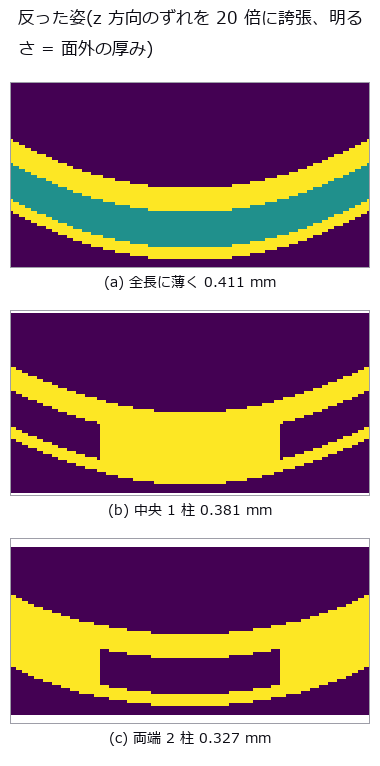
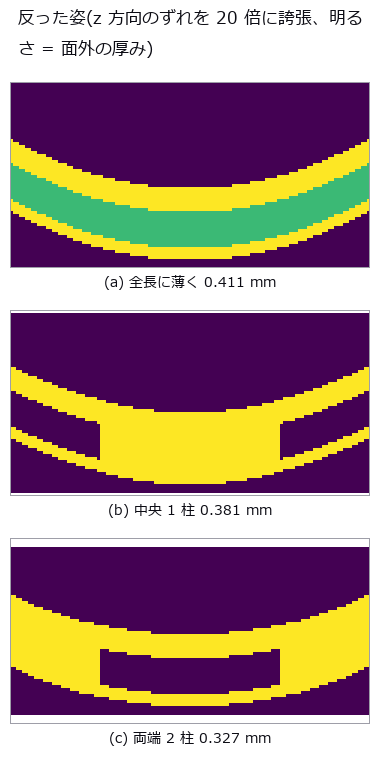
auto: poc_bev_sensor_fusion.py 編集前 (2026-09-07 22:02)

Changed region(s): [[0.0289, 0.2102, 0.9842, 0.3303]]

diff --git a/examples/poc_bev_sensor_fusion.py b/examples/poc_bev_sensor_fusion.py
@@ -827,6 +827,27 @@ def section_bands(rig: Rig) -> dict:
     conds = (("誤差なし", dict()), ("回転 %.2f 度" % BAND_YAW, dict(dyaw=BAND_YAW)),
              ("並進 %.0f mm" % (1000 * BAND_SHIFT),
               dict(dt=(0.0, BAND_SHIFT, 0.0))))
+
+    # (a) まず「点が実際にどれだけ動いたか」を帯ごとに測る(IoU より直接的)
+    print("\n   カメラの点の平均移動量 [m]    "
+          + "  ".join("%5.0f-%2.0f m" % b for b in BANDS) + "   遠 / 近の比")
+    p0 = place(rig.pb, CAM["C"])
+    insl = (p0[:, 2] >= Z_LO) & (p0[:, 2] < Z_HI)
+    shift_ratio = {}
+    for cname, kw in conds[1:]:
+        p1 = place(rig.pb, CAM["C"], **kw)
+        d = np.linalg.norm((p1 - p0)[:, :2], axis=1)
+        vals = []
+        for b in BANDS:
+            sel = insl & (p0[:, 0] >= b[0]) & (p0[:, 0] < b[1])
+            vals.append(float(d[sel].mean()) if sel.any() else 0.0)
+        shift_ratio[cname] = vals[-1] / max(vals[0], 1e-9)
+        print("   %-26s" % cname + "  ".join("%9.3f" % v for v in vals)
+              + "   %8.2f" % shift_ratio[cname])
+    print("   ★回転は帯ごとに %.2f 倍(距離に比例)、並進は %.2f 倍(定数)—— "
+          "**原因はここで既に分かれている**。"
+          % (shift_ratio[conds[1][0]], shift_ratio[conds[2][0]]))
+
     out, rows = {}, []
     hdr = "   誤差を持つセンサ(カメラ)単独  " + " ".join(
         "%5.0f-%2.0f m" % b for b in BANDS) + "   遠 / 近の比"

diff --git a/examples/poc_print_warpage_risk.py b/examples/poc_print_warpage_risk.py
@@ -458,8 +458,10 @@ def _side_view(occ):
     **面外の厚み**になるので首の細さがそのまま見える。
     """
     v = np.asarray(occ, float).transpose(1, 0, 2)      # (y,z,x)
-    p = np.asarray(L.render_volume_projection(v, mode="xray"))
-    return np.flipud(np.asarray(p, float))
+    t = np.asarray(L.render_volume_projection(v, mode="xray"), float) * VOX
+    # 「材料が無い(0)」と「材料が薄い」を混ぜないため、材料側に下駄を履かせる。
+    # 明るさの目盛りは全パネル共通(y の最大幅 16 mm)。
+    return np.flipud(np.where(t > 0.0, 0.35 + 0.65 * t / 16.0, 0.0))
 
 
 def _deformed_view(case, mag=20.0):
